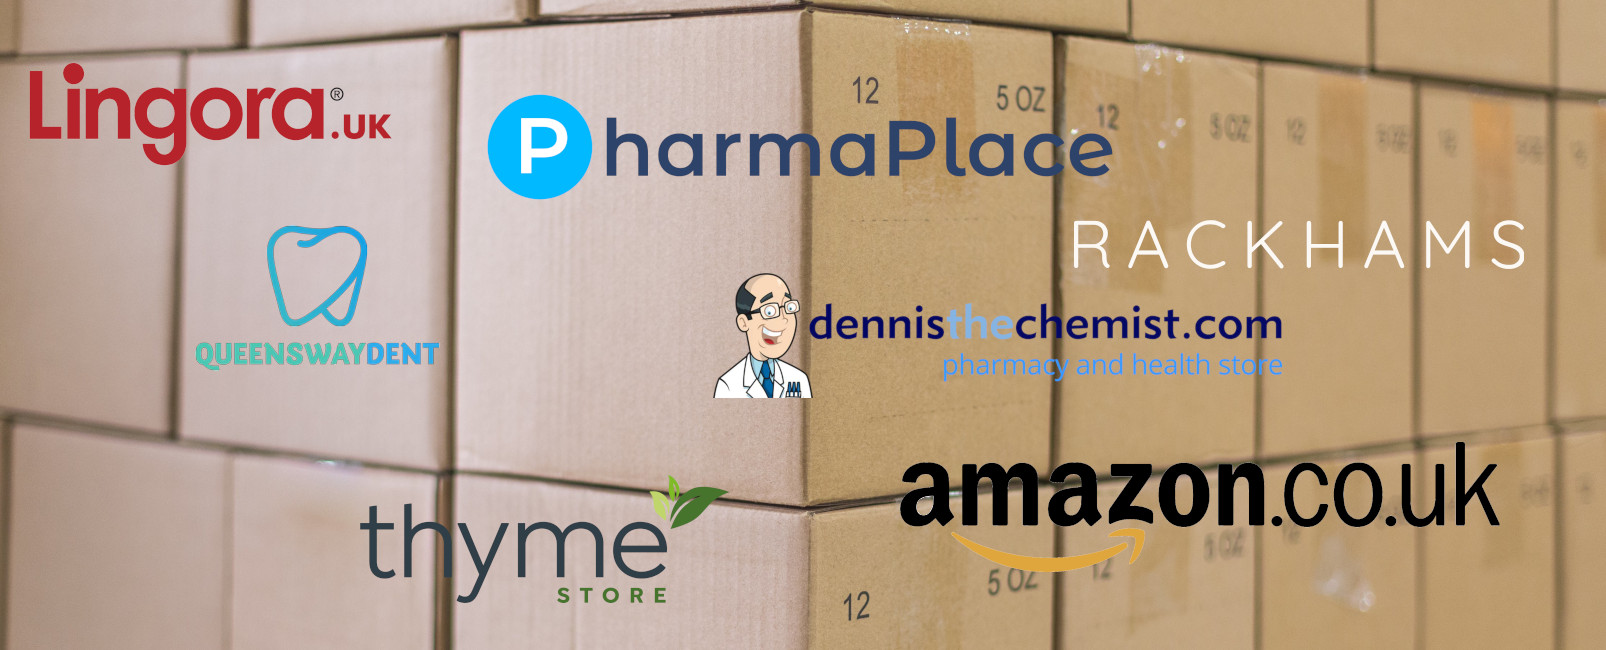
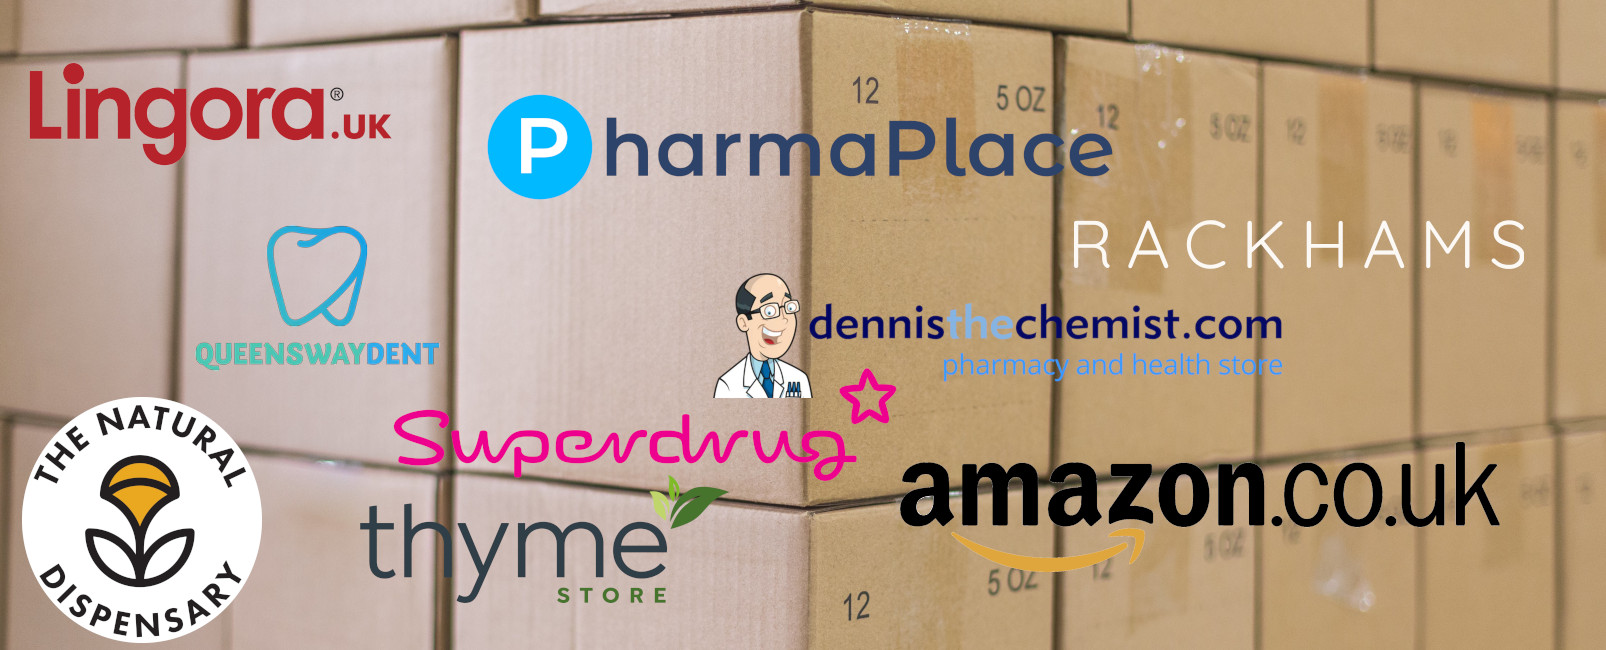
Update reseller page with TDN and Superdrug

Changed region(s): [[0.0, 0.6154, 0.1868, 1.0], [0.2491, 0.6154, 0.5293, 0.7385], [0.4981, 0.5538, 0.5604, 0.6462]]

diff --git a/resell.html b/resell.html
@@ -83,6 +83,8 @@
 											<ul>
 												<li><a href="https://lingora.uk" target="_blank">Lingora.uk</a></li>
 												<li><a href="https://www.amazon.co.uk/dp/B0DNK6HRCH/" target="_blank">Amazon.co.uk</a></li>
+												<li><a href="https://www.superdrug.com/toiletries/dental/mouthwash/lingora-natural-oral-rinse-120ml/p/mp-00171006" target="_blank">Superdrug</a></li>
+												<li><a href="https://naturaldispensary.co.uk/products/Natural_Oral_Rinse_120ml-10016047-1967.html" target="_blank">The Natural Dispensary</a></li>
 												<li><a href="https://rackhams.com/lingora-natural-oral-rinse-120-ml" target="_blank">Rackhams</a></li>
 												<li><a href="https://www.dennisthechemist.com/products/lingora-natural-oral-rinse" target="_blank">Dennis The Chemist</a></li>
 												<li><a href="https://queenswaydent.co.uk/collections/mouthwash/products/lingora%C2%AE-natural-oral-rinse-dry-mouth-relief-plaque-control-fruity-flavour-vegan-120-ml" target="_blank">Queensway Dental</a></li>
